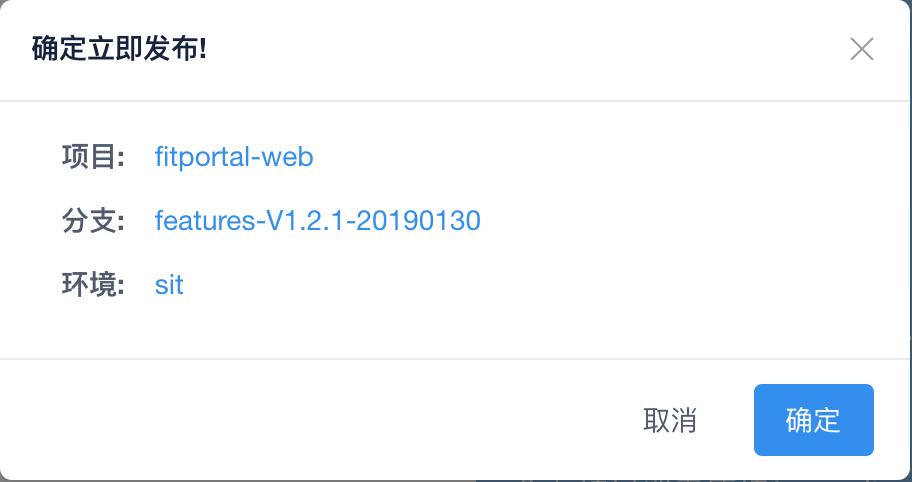
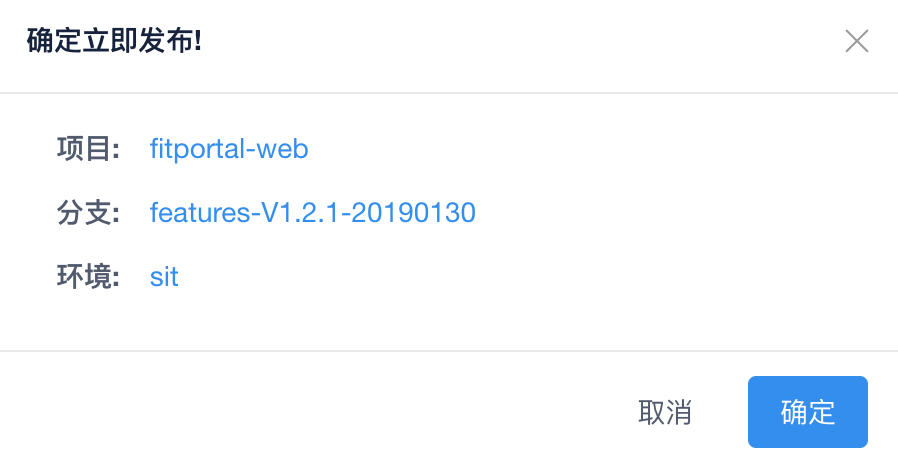
[IMP] 优化部署文档

diff --git a/docs/new/autodeploy.md b/docs/new/autodeploy.md
@@ -20,18 +20,18 @@ npm run build:sit     -- sit环境适用
 ### PC版
 
 选择要部署信息
-![deploy-config](img/deploy-config.png ':size=300x300')
+![deploy-config](../img/deploy-config.png ':size=400x300')
 
 确认所选信息
-![deploy-tip](img/deploy-tip.png ':size=300x300')
+![deploy-tip](../img/deploy-tip.png ':size=400x250')
 
 部署结果回传
-![deploy-res](img/deploy-res.png ':size=300x300')
+![deploy-res](../img/deploy-res.png ':size=600x500')
 
 ### 移动版
 
 移动端部署与PC版极其相似，在此仅展示部署信息选择部分
 
 选择要部署信息
-![deploy-m-config](img/deploy-m-config.png ':size=300x300')
+![deploy-m-config](../img/deploy-m-config.png ':size=300x400')
 
